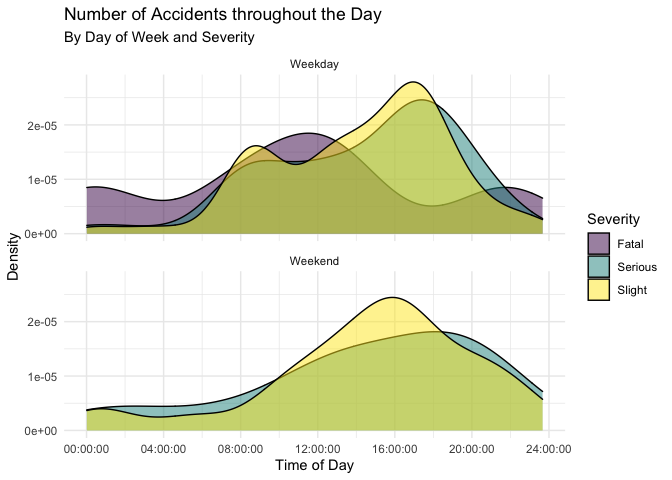
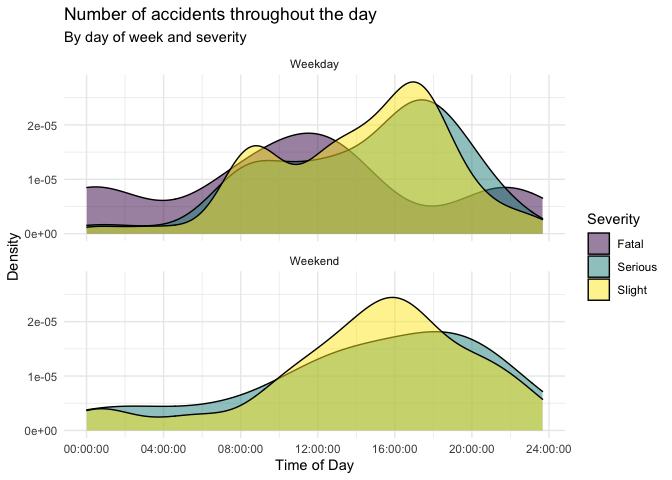
Done with exercise 4, moving onto the last exercise.

Changed region(s): [[0.125, 0.0, 0.5625, 0.0938]]

diff --git a/homework-01.md b/homework-01.md
@@ -55,8 +55,8 @@ accidents %>%
   scale_fill_viridis_d(name = "Severity")+
   facet_wrap(vars(weekend), ncol = 1)+
   theme_minimal()+
-  labs(title = "Number of Accidents throughout the Day",
-       subtitle = "By Day of Week and Severity",
+  labs(title = "Number of accidents throughout the day",
+       subtitle = "By day of week and severity",
        y = "Density",
        x = "Time of Day")
 ```
@@ -78,12 +78,9 @@ afternoon.
 ## Question 3: NYC marathon winners
 
 ``` r
-#define dataset of interest
-marathon <- nyc_marathon
-
 #create histogram of the distribution of marathon times
-ggplot(data = marathon,
-       mapping = aes(y = time_hrs),)+
+ggplot(data = nyc_marathon,
+       mapping = aes(y = time_hrs))+
   geom_histogram(binwidth = 0.03, na.rm = TRUE, fill = "navy")+
   theme_minimal()+
   labs(title = "Distribution of Finishing Times of NYC Marathon Winners",
@@ -97,8 +94,8 @@ ggplot(data = marathon,
 
 ``` r
 #create box plot of the distribution of marathon times
-ggplot(data = marathon,
-       mapping = aes(y = time_hrs),)+
+ggplot(data = nyc_marathon,
+       mapping = aes(y = time_hrs))+
   geom_boxplot(na.rm = TRUE, color = "navy")+
   theme_minimal()+
   theme(axis.text.x=element_blank())+
@@ -128,8 +125,8 @@ same insights into the data structure.
 
 ``` r
 #create side by side box plots of finishing time by gender
-ggplot(data = marathon,
-       mapping = aes(y = time_hrs, color = division),)+
+ggplot(data = nyc_marathon,
+       mapping = aes(y = time_hrs, color = division))+
   scale_color_manual(values = c("magenta", "cyan"))+
   geom_boxplot(na.rm = TRUE, show.legend = FALSE)+
   facet_wrap(vars(division))+
@@ -154,10 +151,29 @@ winners. In comparison to the box plot constructed in exercise 3a, the
 box plots divided by gender reveal more outliers.
 
 ``` r
-ggplot(data = marathon,
+#redo previous plot without faceting
+ggplot(data = nyc_marathon,
        mapping = aes(y = time_hrs, color = division))+
   scale_color_manual(values = c("magenta", "cyan"))+
+  geom_boxplot(na.rm = TRUE)+
+  theme_minimal()+
+  theme(axis.text.x=element_blank())+
+  labs(title = "Distribution of Finishing Times of NYC Marathon Winners by Gender",
+       subtitle = "Includes data from NYC Marathons between 1970-2020",
+       y = "Marathon Completion Time in Hours",
+       x = "Gender",
+       color = "Gender",
+       caption = "Source: OpenIntro Package")
+```
+
+![](homework-01_files/figure-gfm/exercise-3c-1.png)<!-- -->
+
+``` r
+#redo previous plot without color differences
+ggplot(data = nyc_marathon,
+       mapping = aes(y = time_hrs))+
   geom_boxplot(na.rm = TRUE, show.legend = FALSE)+
+  facet_wrap(vars(division))+
   theme_minimal()+
   theme(axis.text.x=element_blank())+
   labs(title = "Distribution of Finishing Times of NYC Marathon Winners by Gender",
@@ -167,12 +183,20 @@ ggplot(data = marathon,
        caption = "Source: OpenIntro Package")
 ```
 
-![](homework-01_files/figure-gfm/exercise-3c-1.png)<!-- -->
+![](homework-01_files/figure-gfm/exercise-3c-2.png)<!-- -->
 
-\[INCLUDE EXPLANATION OF WHAT’S REDUNDANT\]
+I don’t think very many things in the plot from exercise 3b were
+redundant. The only thing that I noticed is redundant is that I
+assigning a different color for the different genders *and* made use of
+faceting to work out the same difference. In the first plot above, I
+thus redid the same graph but this time without faceting, as the color
+difference already indicates the gender division. Alternatively, one
+could facet the plot without using color, which is what I do for the
+second plot. Neither graph meaningfully changes the data-to-ink ration
+in my opinion.
 
 ``` r
-ggplot(data = marathon,
+ggplot(data = nyc_marathon,
        mapping = aes(x = year, y = time_hrs, color = division, shape = division))+
   scale_color_manual(values = c("magenta", "cyan"), name = "Gender")+
   scale_shape_manual(values = c(16, 17), name = "Gender")+
@@ -202,6 +226,143 @@ both men and women. This might be due to technological advances
 benefited starting in the mid-1970s.
 
 ## Question 4: US counties
+
+``` r
+#examine code from exercise 4a
+ggplot(county) +
+  #geom_point(aes(x = median_edu, y = median_hh_income)) +
+  geom_boxplot(aes(x = smoking_ban, y = pop2017))
+```
+
+![](homework-01_files/figure-gfm/exercise-4a-1.png)<!-- -->
+
+The code above works in the sense that it produces an output. However,
+assuming the intention was to create a plot showcasing the relationship
+between median education level and median household income on one hand,
+and a box plot indicating the distribution of the population in 2017 by
+counties with comprehensive, partial or no smoking bans, I believe the
+above code does not achieve that.
+
+First of all, I think the coder should have created two separate
+ggplots, as there is no overlap between variables between the two plots
+they attempted to create. Secondly, to analyze the relationship between
+a categorical and a continuous variable (i.e. median education level and
+median household income), a scatter plot is not the way to go. Instead,
+the coder could have utilized a box plot to indicate the distribution of
+household income per education level, or a violin plot in order to
+indicate the density of observations by income level.
+
+Considering the second plot the coder attempted to create, formally, a
+box plot is an appropriate way of going about it, as it maps the
+distribution of a continuous variable (i.e. population in 2017) onto a
+categorical variable (i.e. smoking ban). However, in this context, I’m
+not sure what the contribution is, as the two variables do not seem
+related to me.
+
+``` r
+#recreate plot A from exercise 4b
+ggplot(data = county,
+       mapping = aes(x = homeownership, y = poverty))+
+  geom_point()+
+  labs(title = "Plot A")
+```
+
+![](homework-01_files/figure-gfm/exercise-4b-1.png)<!-- -->
+
+``` r
+#recreate plot B from exercise 4b
+ggplot(data = county,
+       mapping = aes(x = homeownership, y = poverty))+
+  geom_point()+
+  geom_smooth(se = FALSE,
+              method = 'gam',
+              formula = y ~ s(x, bs = "cs"))+
+  labs(title = "Plot B")
+```
+
+![](homework-01_files/figure-gfm/exercise-4b-2.png)<!-- -->
+
+``` r
+#recreate plot C from exercise 4b
+ggplot(data = county,
+       mapping = aes(x = homeownership, y = poverty))+
+  geom_point(color = "black")+
+  geom_smooth(mapping = aes(group = metro),
+              se = FALSE,
+              color = "green",
+              method = 'gam',
+              formula = y ~ s(x, bs = "cs"))+
+  labs(title = "Plot C")
+```
+
+![](homework-01_files/figure-gfm/exercise-4b-3.png)<!-- -->
+
+``` r
+#recreate plot D from exercise 4b
+ggplot(data = county,
+       mapping = aes(x = homeownership, y = poverty))+
+  geom_point(color = "black")+
+  geom_smooth(mapping = aes(group = metro),
+              se = FALSE,
+              color = "blue",
+              method = 'gam',
+              formula = y ~ s(x, bs = "cs"))+
+  labs(title = "Plot D")
+```
+
+![](homework-01_files/figure-gfm/exercise-4b-4.png)<!-- -->
+
+``` r
+#recreate plot E from exercise 4b
+ggplot(data = county,
+       mapping = aes(x = homeownership, y = poverty, color = metro))+
+  geom_point()+
+  geom_smooth(mapping = aes(linetype = metro),
+              se = FALSE,
+              color = "blue",
+              method = 'gam',
+              formula = y ~ s(x, bs = "cs"))+
+  labs(title = "Plot E")
+```
+
+![](homework-01_files/figure-gfm/exercise-4b-5.png)<!-- -->
+
+``` r
+#recreate plot F from exercise 4b
+ggplot(data = county,
+       mapping = aes(x = homeownership, y = poverty, color = metro))+
+  geom_point()+
+  geom_smooth(se = FALSE,
+              method = 'gam',
+              formula = y ~ s(x, bs = "cs"))+
+  labs(title = "Plot F")
+```
+
+![](homework-01_files/figure-gfm/exercise-4b-6.png)<!-- -->
+
+``` r
+#recreate plot G from exercise 4b
+ggplot(data = county,
+       mapping = aes(x = homeownership, y = poverty, color = metro))+
+  geom_point()+
+  geom_smooth(mapping = aes(group = 1),
+              se = FALSE,
+              method = 'gam',
+              formula = y ~ s(x, bs = "cs"))+
+  labs(title = "Plot G")
+```
+
+![](homework-01_files/figure-gfm/exercise-4b-7.png)<!-- -->
+
+``` r
+#recreate plot H from exercise 4b
+ggplot(data = county,
+       mapping = aes(x = homeownership, y = poverty, color = metro))+
+  geom_point()+
+  labs(title = "Plot H")
+```
+
+![](homework-01_files/figure-gfm/exercise-4b-8.png)<!-- -->
 
 ## Question 5: Napoleon’s march.
 
